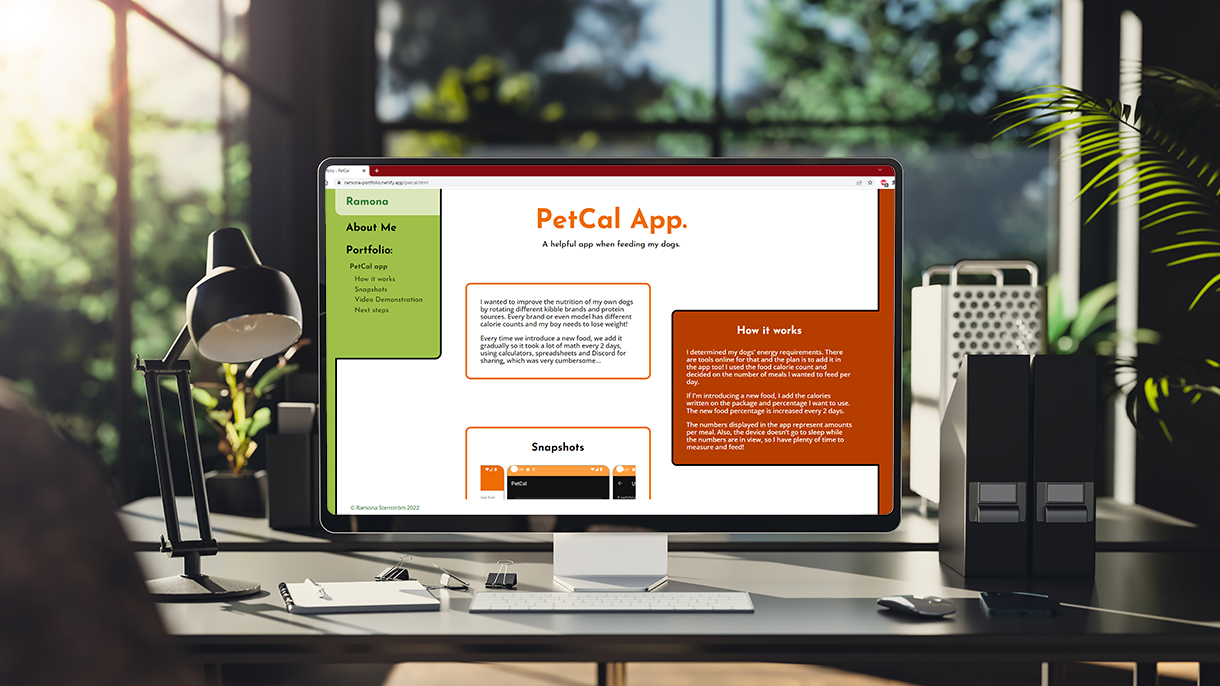
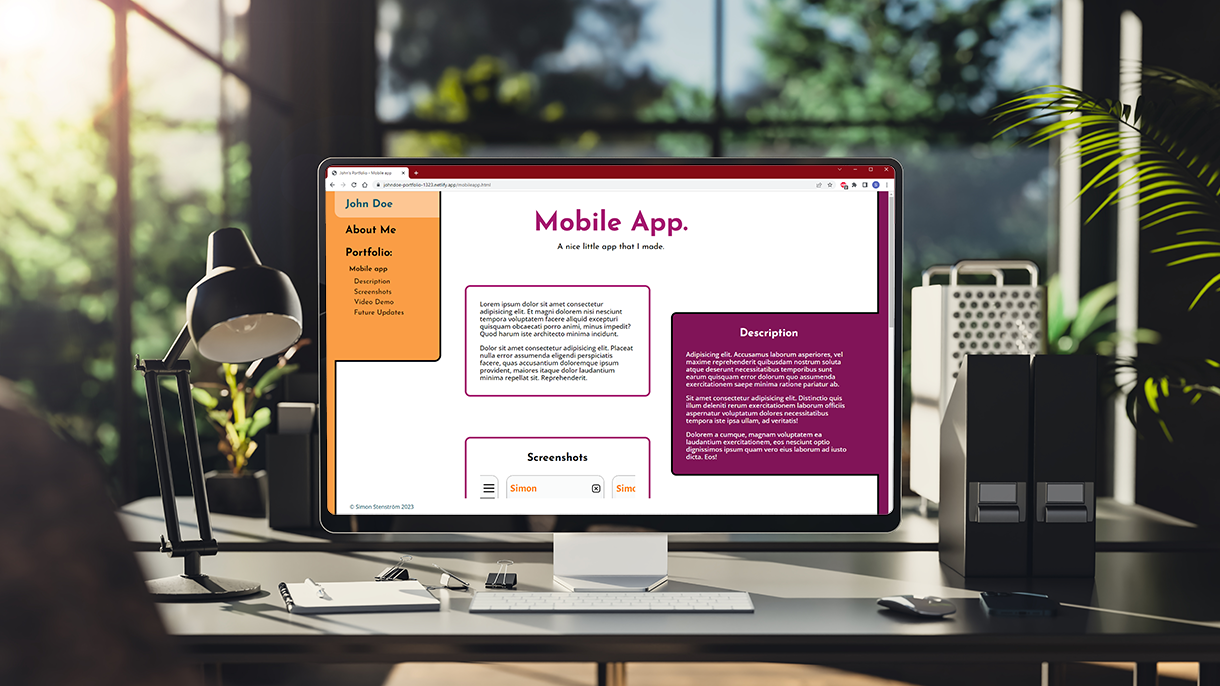
fixed mobile design

Changed region(s): [[0.2492, 0.2143, 0.7475, 0.7653], [0.4361, 0.3061, 0.5607, 0.3673]]

diff --git a/css/design.css b/css/design.css
@@ -23,6 +23,8 @@
   --lighter-main-color: #ffca99;
   --darker-main-color: #994a00;
   --btn-languages-color: #0071db;
+  --john-doe-color: #1b8aa6;
+  --yelpcamp-color: #4caf50;
 }
 
 body {
@@ -35,7 +37,7 @@ body {
     url("../images/bg-image.jpg");
   background-repeat: no-repeat;
   background-attachment: fixed;
-  font-size: 1.2rem;
+  font-size: 1.2em;
 }
 
 h1,
@@ -60,6 +62,14 @@ a {
 
 .main-color-text {
   color: var(--main-color);
+}
+
+.johndoe-color-text {
+  color: var(--john-doe-color);
+}
+
+.yelpcamp-color-text {
+  color: var(--yelpcamp-color);
 }
 
 .light-color {
@@ -153,12 +163,14 @@ a {
 
 .last-name {
   display: none;
+  text-decoration: inherit;
+  text-underline-offset: inherit;
 }
 
 .hamburger-menu,
 .hamburger-x {
   margin-left: auto;
-  padding-right: 20px;
+  padding-right: 1px;
 }
 
 .mobile-menu-hidden {
@@ -178,7 +190,8 @@ a {
   font-size: 1.8rem;
 }
 
-.menu a:hover {
+.menu a:hover,
+.nav-name a p:hover {
   text-decoration: underline var(--main-color) 2.5px;
   text-underline-offset: 0.75rem;
 }
@@ -233,8 +246,8 @@ a {
 
 .section-container h1,
 .hello-container h1 {
-  font-size: 4.4em;
-  line-height: 2rem;
+  font-size: 3.4em;
+  line-height: 1.6rem;
   font-weight: 700;
   text-shadow: var(--light-border-color) 0 0 8px;
 }
@@ -260,17 +273,34 @@ a {
   padding-right: 20px;
 }
 .work-title {
-  font-size: 2em;
+  font-size: 1.5em;
   text-shadow: var(--light-border-color) 0 0 8px;
 }
 
 .hello-aligment {
-  margin-top: 10rem;
+  margin-top: 1rem;
 }
 
 .checkout-alignment {
   margin-top: -5rem;
   text-align: center;
+}
+
+@media (min-width: 550px) {
+  .section-container h1,
+  .hello-container h1 {
+    font-size: 4.4em;
+    line-height: 2rem;
+  }
+
+  .work-title {
+    font-size: 2em;
+    margin-top: 0rem;
+  }
+
+  .hello-aligment {
+    margin-top: 10rem;
+  }
 }
 
 @media (min-width: 900px) {
@@ -307,7 +337,7 @@ a {
 .textbox {
   border: var(--light-border-color) 1px solid;
   background-color: rgba(255, 255, 255, 0.75);
-  padding: 4rem;
+  padding: 2rem;
   font-weight: 400;
   display: grid;
   text-align: left;
@@ -319,12 +349,21 @@ a {
   margin-bottom: 3rem;
 }
 
+@media (min-width: 550px) {
+  .textbox {
+    padding: 3rem;
+  }
+}
+
 @media (min-width: 900px) {
   .box-r {
     border-radius: 0 9rem 9rem 9rem;
   }
   .box-l {
     border-radius: 9rem 0 9rem 9rem;
+  }
+  .textbox {
+    padding: 4rem;
   }
 }
 
@@ -546,7 +585,7 @@ textarea:focus {
 /* 7. About section */
 
 .about-image {
-  max-width: 350px;
+  max-width: 300px;
   border-radius: 4.5rem 4.5rem 0 0;
   /* border: 1px solid var(--light-border-color); */
 }
@@ -559,7 +598,7 @@ textarea:focus {
   text-align: center;
   margin-bottom: 0rem;
   padding-bottom: 0rem;
-  height: 437px;
+  height: 375px;
   order: -1;
 }
 
@@ -568,13 +607,9 @@ textarea:focus {
 }
 
 .box-about-me {
-  border-radius: 2.5rem 2.5rem 4.5rem 4.5rem;
+  border-radius: 0rem 0rem 4.5rem 4.5rem;
   margin-bottom: 3rem;
 }
-/* .box-about-me {
-  border-radius: 0 0 4.5rem 4.5rem;
-  margin-bottom: 3rem;
-} */
 
 @media (min-width: 500px) {
   .box-about-me {
@@ -594,6 +629,12 @@ textarea:focus {
 @media (min-width: 550px) {
   .box-about-me {
     border-radius: 4.5rem;
+  }
+  .about-image {
+    max-width: 350px;
+  }
+  .about-photo-container {
+    height: 437px;
   }
 }
 

diff --git a/index.html b/index.html
@@ -50,12 +50,7 @@
         <!-- 1.Navbar start -->
         <nav class="navbar">
           <div class="left-nav">
-            <a href="index.html">
-              <img
-                src="/images/portrait-placeholder.jpg"
-                class="nav-avatar"
-                alt=""
-            /></a>
+    
           </div>
 
           <div class="navlink-container nav-name">
@@ -138,7 +133,7 @@
           <div class="portfolio-section-container">
 
             <div class="portfolio-textbox box-l-portfolio align-l">
-            <h2>YelpCamp</h2>
+            <h2><span class="yelpcamp-color-text">Yelp</span>Camp</h2>
             <p>Website created during the Udemy course The Web Developer Bootcamp 2022. It displays randomly generated campsites in the US. Includes geocoding, account creation, commenting plus add, edit and delete for your own campsites. </p>
             <p></p>
 
@@ -150,7 +145,7 @@
 
               </div>
              </a>
-          <a href="https://github.com/" target="_blank">
+          <a href="https://github.com/bucky-13/yelpcamp" target="_blank">
               <div class="git-btn"> <img src="images/icons/github-icon-light.svg"alt=""> 
               <p>git repository</p> </div>
              </a>
@@ -186,19 +181,19 @@
 <div class="portfolio-section-container">
 
             <div class="portfolio-textbox box-l-portfolio align-l">
-              <h2>Portfolio site for John Doe</h2>
+              <h2>Portfolio site for <span class="johndoe-color-text">John Doe</span></h2>
               <p>My first portfolio site, contains about and portfolio sections.</p>
               <p></p>
 
               <div class="portfolio-btn-git-flex">
 
-              <a href="https://ramona-portfolio.netlify.app/" target="_blank">
+              <a href="https://johndoe-portfolio-1323.netlify.app/" target="_blank">
               <div class="view-btn">
                 <p>View Site</p>  <img src="/images/icons/link-external-light.svg" alt="">
 
               </div>
              </a>
-              <a href="https://github.com/" target="_blank">
+              <a href="https://github.com/bucky-13/johndoe-portfolio" target="_blank">
               <div class="git-btn"> <img src="images/icons/github-icon-light.svg"alt=""> 
               <p>git repository</p> </div>
              </a>

diff --git a/css/layout.css b/css/layout.css
@@ -22,7 +22,7 @@ body {
 
 .navbar {
   display: grid;
-  grid-template-columns: 100px 20% auto;
+  grid-template-columns: 1px 20% auto;
   align-items: center;
   border-bottom: 3px solid black;
   position: sticky;
@@ -129,7 +129,7 @@ body {
 @media (min-width: 900px) {
   .navbar {
     display: grid;
-    grid-template-columns: 100px 35% auto;
+    grid-template-columns: 10px 35% auto;
   }
   .page-container {
     grid-template-columns: auto 90% auto;
